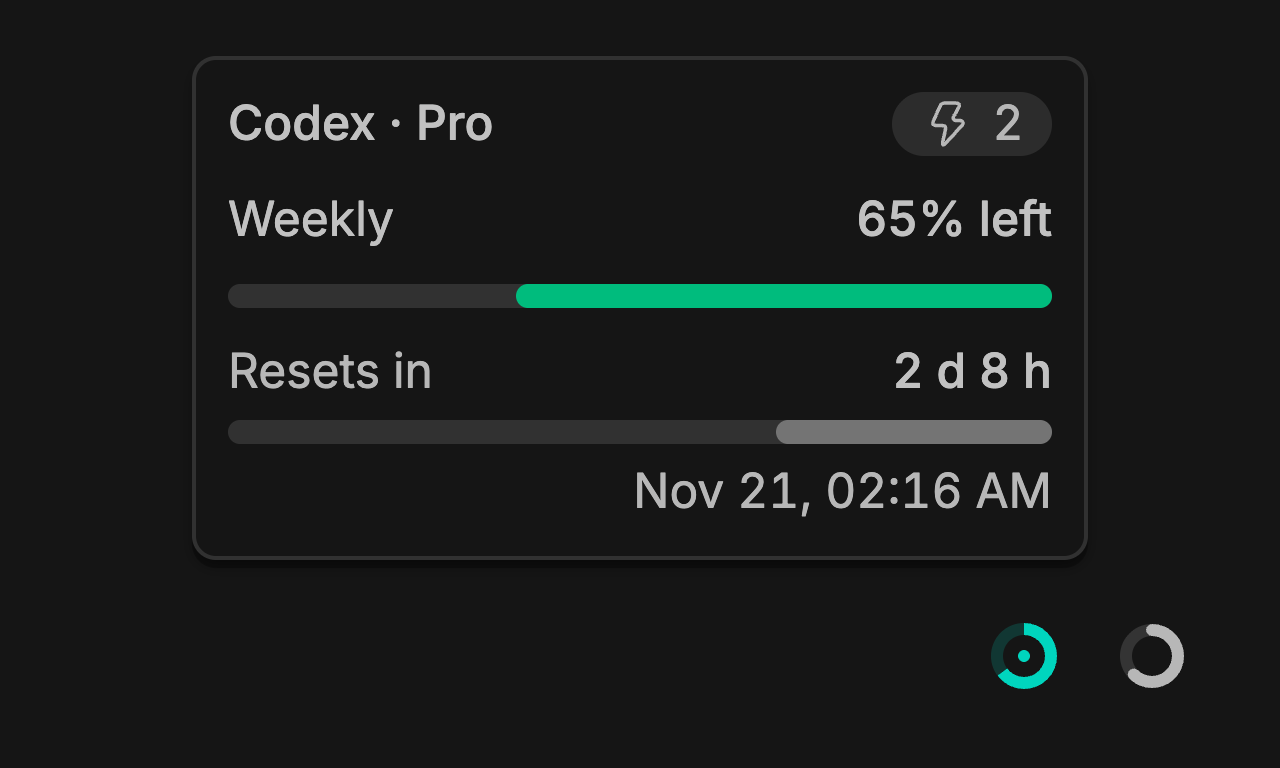
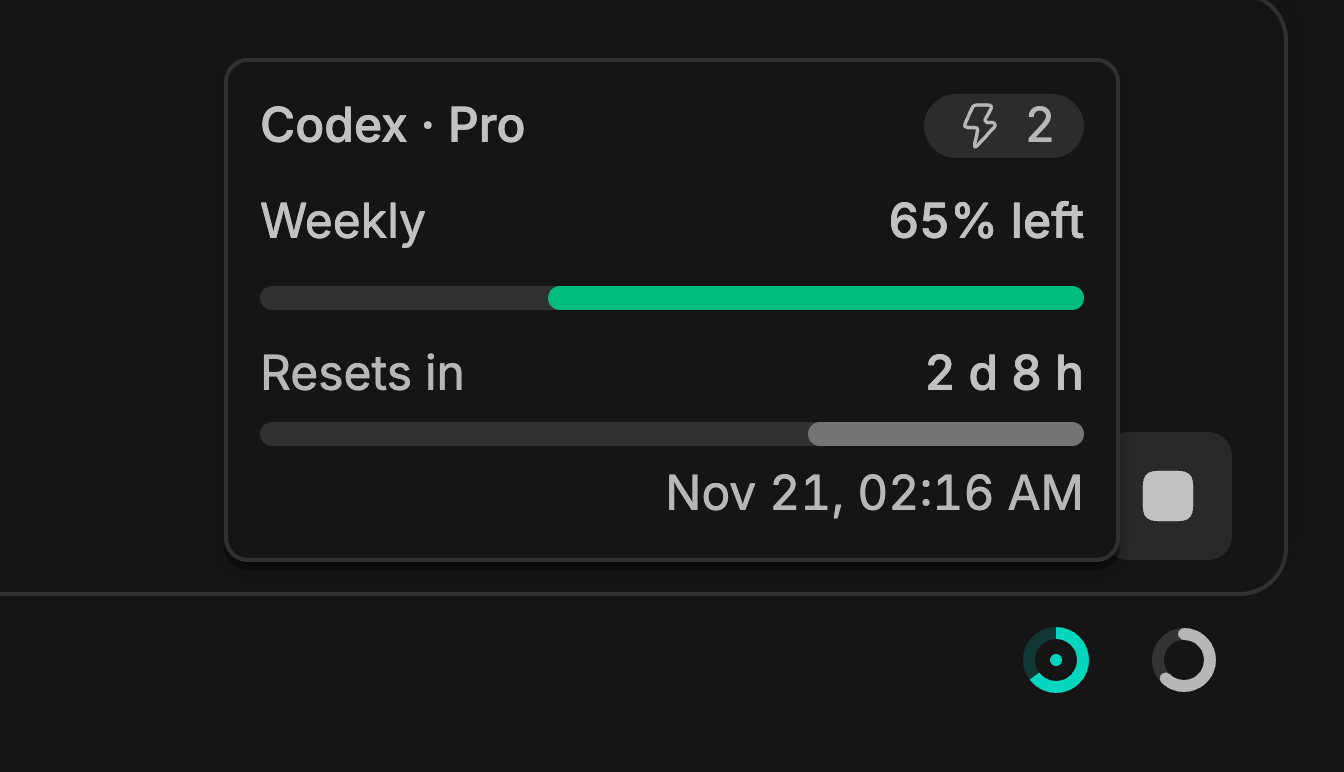
Show the Pro quota card in the BB chat composer in both READMEs

diff --git a/README.ru.md b/README.ru.md
@@ -4,9 +4,9 @@
 
 Сколько осталось от лимита OpenAI Codex и когда он сбросится? Выберите Codex и машину — кольцо появится ещё до первого сообщения. В чате BB наведите курсор на бирюзовое кольцо или коснитесь его. Обычно оно рядом с индикатором контекста, а в узком поле ввода на телефоне — рядом с кнопкой отправки.
 
-**Пример Pro.** Codex передал только недельный лимит. В карточке видны остаток и время сброса.
+**Pro в чате BB.** В этом примере осталось 65% недельной квоты и доступны два ручных сброса.
 
-<img src="docs/screenshots/pro-weekly-ru.png" width="480" alt="Codex Pro в BB: осталось 65% недельного лимита, до сброса 2 дня и 8 часов">
+<img src="docs/screenshots/pro-weekly-ru.png" width="480" alt="Карточка Codex Pro над бирюзовым кольцом рядом с индикатором контекста. Осталось 65% на неделю, до сброса 2 дня и 8 часов. Доступны два ручных сброса">
 
 <details>
 <summary>Сравнить с Plus — лимиты на 5 часов и на неделю</summary>

diff --git a/README.md b/README.md
@@ -4,9 +4,9 @@
 
 See how much of your OpenAI Codex subscription quota is left and when each limit resets. Select Codex and a machine to see your quota before sending the first message. In a BB thread, hover over or tap the teal ring beside the context meter. In the compact phone layout, the ring sits beside the send controls.
 
-**Pro example.** Codex reports one weekly limit. The card shows how much is left and when it resets.
+**Pro in a BB chat.** In this example, 65% of the weekly quota remains and two manual resets are available.
 
-<img src="docs/screenshots/pro-weekly-en.png" width="480" alt="Codex Pro in BB: 65% of the weekly quota remains, with 2 days and 8 hours until reset">
+<img src="docs/screenshots/pro-weekly-en.png" width="480" alt="Codex Pro card above the teal quota ring beside the context meter, showing 65% left, 2 days and 8 hours until reset, and two available manual resets">
 
 <details>
 <summary>Compare with Plus — five-hour and weekly limits</summary>
